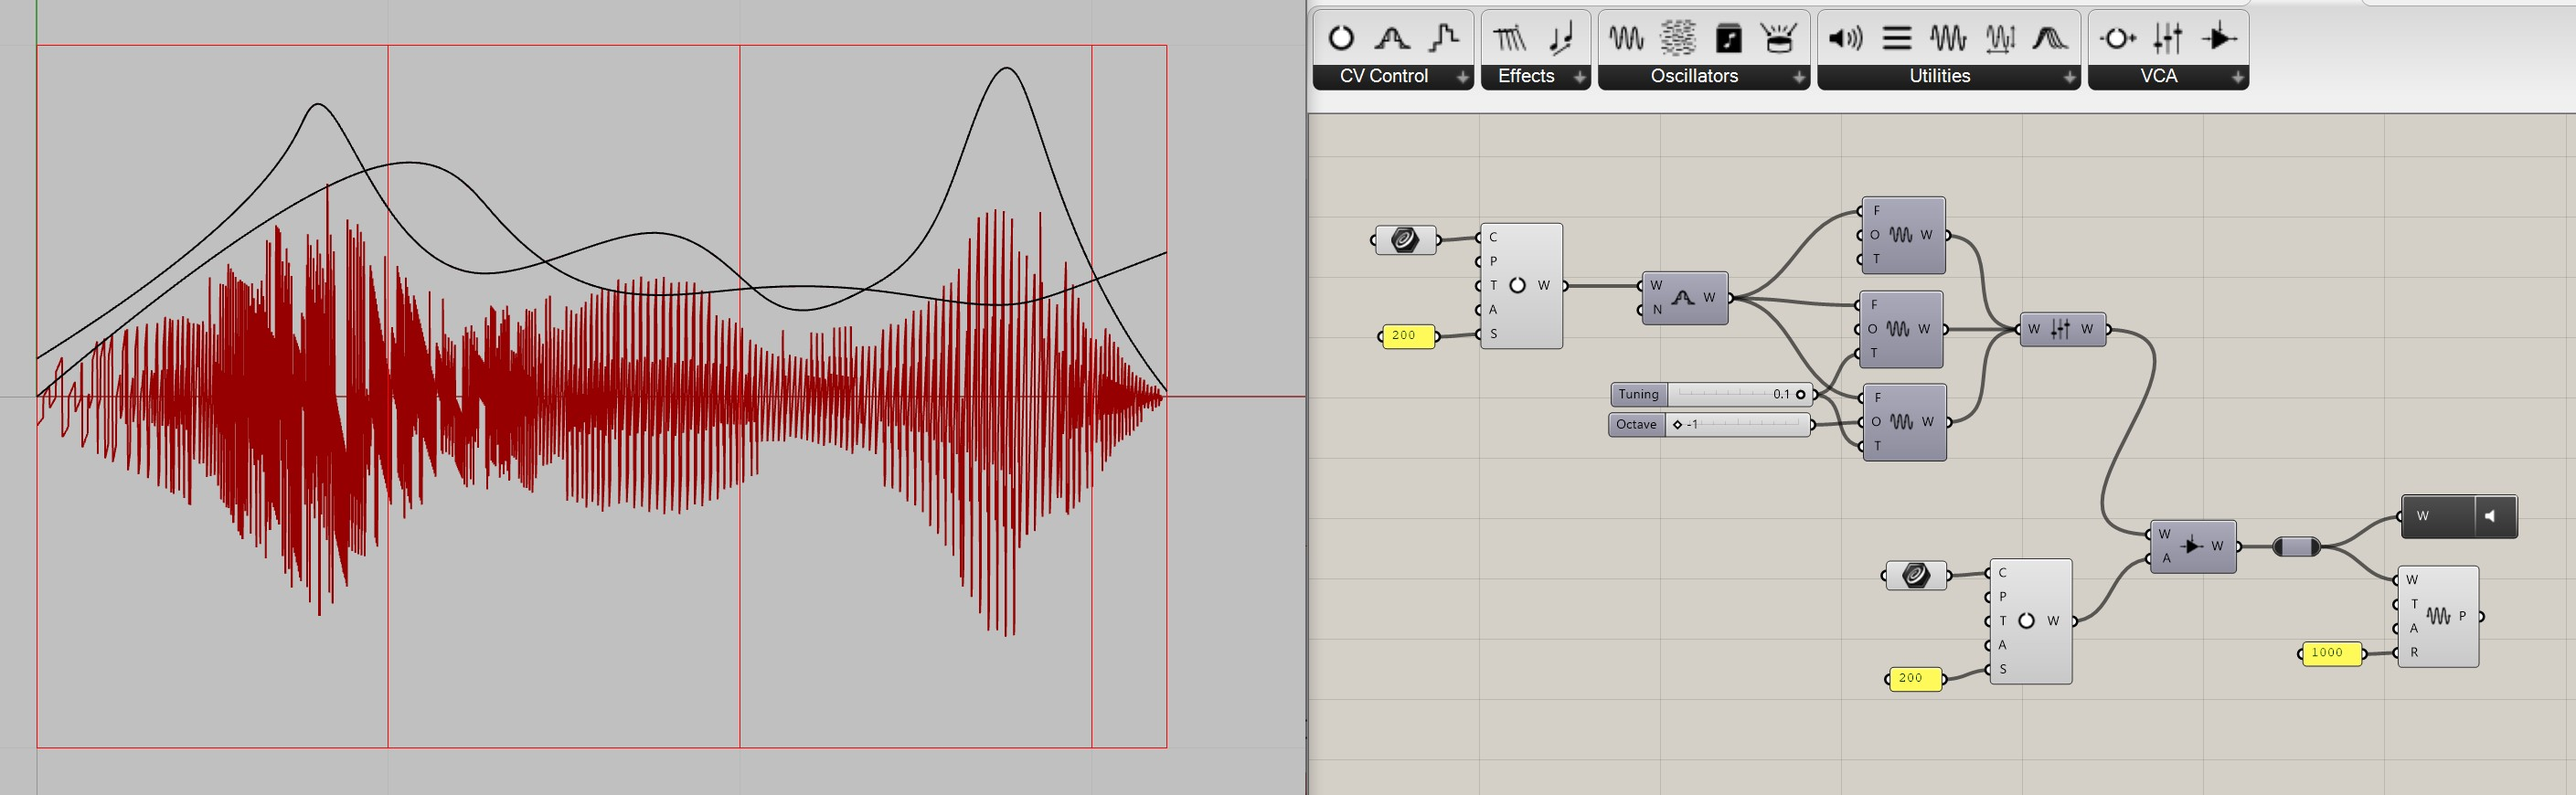
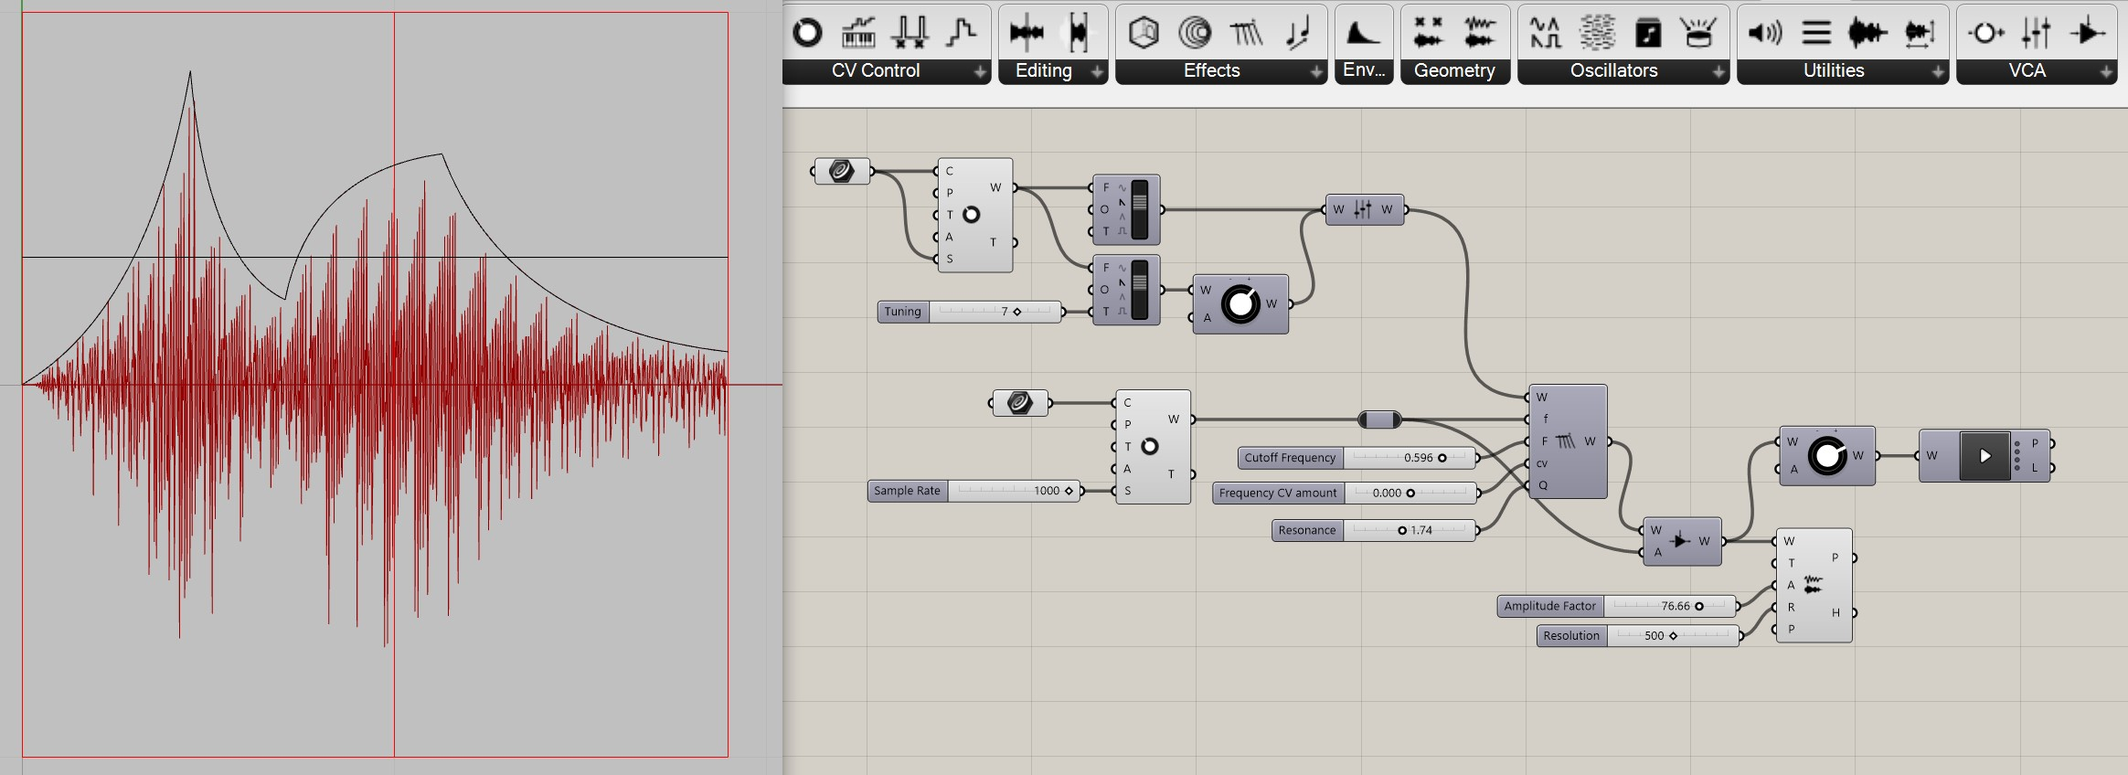
offset update

diff --git a/Siren/Audio/LPFComponent.cs b/Siren/Audio/LPFComponent.cs
@@ -54,17 +54,19 @@ namespace Siren
             var cvIn = CachedSound.Empty;
             if (!DA.GetData("Frequency CV", ref cvIn)) return;
 
-            var cutoff = 10.0;
+            var cutoff = 1.0;
             DA.GetData("Cutoff Frequency", ref cutoff);
-            cutoff = SirenUtilities.Clamp((float)cutoff, -10f, 10f);
+            cutoff = SirenUtilities.Clamp((float)cutoff, -1f, 1f);
 
-            var cvAmount = 0.0;
-            DA.GetData("Frequency CV amount", ref cvAmount);
+            var amount = 0.0;
+            DA.GetData("Frequency CV amount", ref amount);
 
             var q = 1.0;
             DA.GetData("Resonance", ref q);
 
-            var filtered = new SampleProviders.VCFProvider(waveIn.ToSampleProvider(), cvIn.ToSampleProvider(), (float)q);
+            var offsetSignal = new SampleProviders.AttenuverterProvider(cvIn.ToSampleProvider(), (float) amount, (float) cutoff);
+
+            var filtered = new SampleProviders.VCFProvider(waveIn.ToSampleProvider(), offsetSignal, (float)q);
 
             DA.SetData(0, filtered);
         }

diff --git a/Siren/SampleProviders/AttenuverterProvider.cs b/Siren/SampleProviders/AttenuverterProvider.cs
@@ -6,13 +6,15 @@ namespace Siren.SampleProviders
     {
         private readonly ISampleProvider _source;
         private readonly float _amount;
+        private readonly float _offset;
 
         public WaveFormat WaveFormat => _source.WaveFormat;
 
-        public AttenuverterProvider(ISampleProvider source, float amount)
+        public AttenuverterProvider(ISampleProvider source, float amount, float offset)
         {
             _source = source;
             _amount = amount;
+            _offset = offset;
         }
 
         public int Read(float[] buffer, int offset, int count)
@@ -21,6 +23,7 @@ namespace Siren.SampleProviders
             for (int n = 0; n < sampleRead; n++)
             {
                 buffer[offset + n] *= _amount;
+                buffer[offset + n] += _offset;
             }
             return sampleRead;
         }

diff --git a/Siren/SampleProviders/VCFProvider.cs b/Siren/SampleProviders/VCFProvider.cs
@@ -33,7 +33,9 @@ namespace Siren.SampleProviders
             var nyquist = _source.WaveFormat.SampleRate * 0.5f;
             for (int n = 0; n < Math.Min(samplesRead, samplesReadCv); n++)
             {
-                var f = (bufferCv[offset + n]) * 1.16f;
+                var cvf = SirenUtilities.Clamp(bufferCv[offset + n], -1, 1);
+                cvf = cvf * 0.5f + 0.5f;
+                var f = (cvf) * 1.16f;
                 var fb = _resonance * (1.0f - 0.15f * f * f);
 
                 var input = buffer[offset + n];

diff --git a/Siren/Audio/AttenuverterComponent.cs b/Siren/Audio/AttenuverterComponent.cs
@@ -64,7 +64,7 @@ namespace Siren.Audio
                 attributes.Locked = true;
             }
 
-            var attenuverter = new SampleProviders.AttenuverterProvider(waveIn.ToSampleProvider(), (float)attenuation);
+            var attenuverter = new SampleProviders.AttenuverterProvider(waveIn.ToSampleProvider(), (float)attenuation, 0.0f);
 
             DA.SetData(0, attenuverter);
         }
